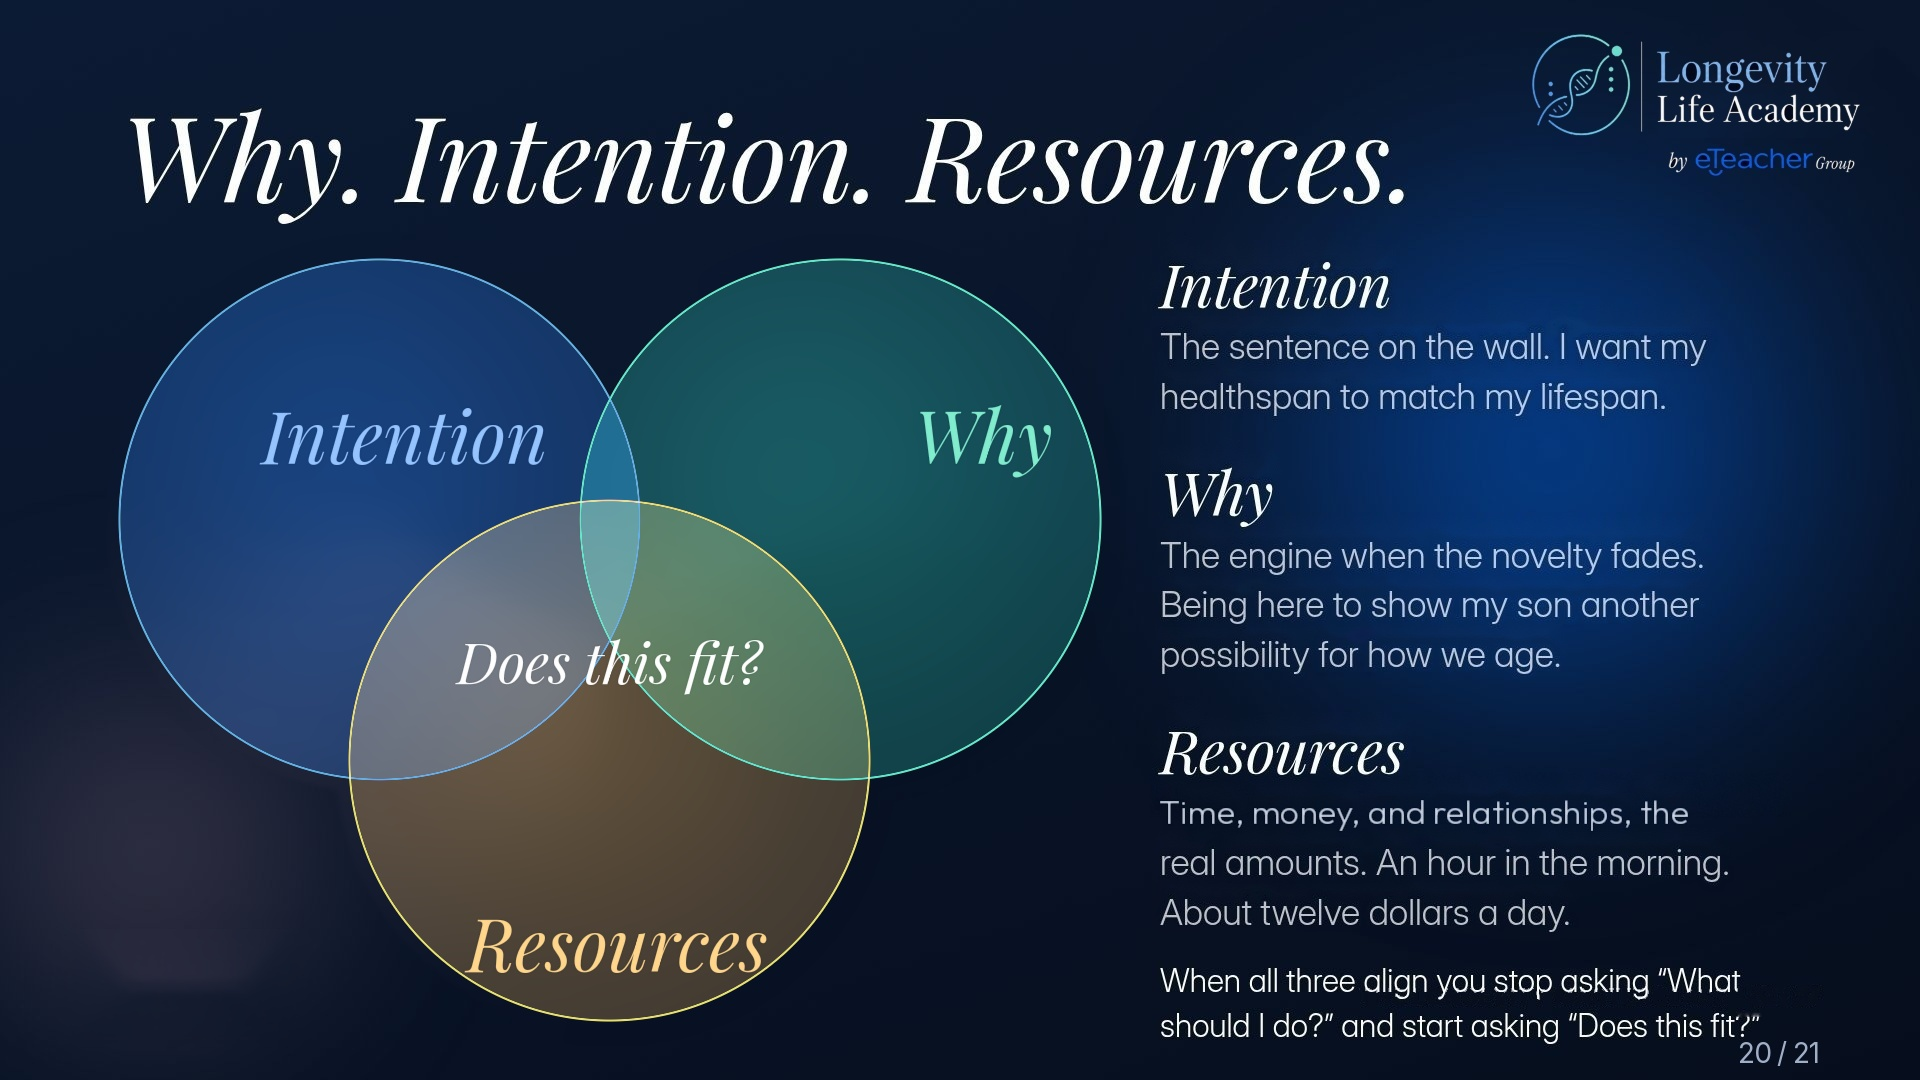
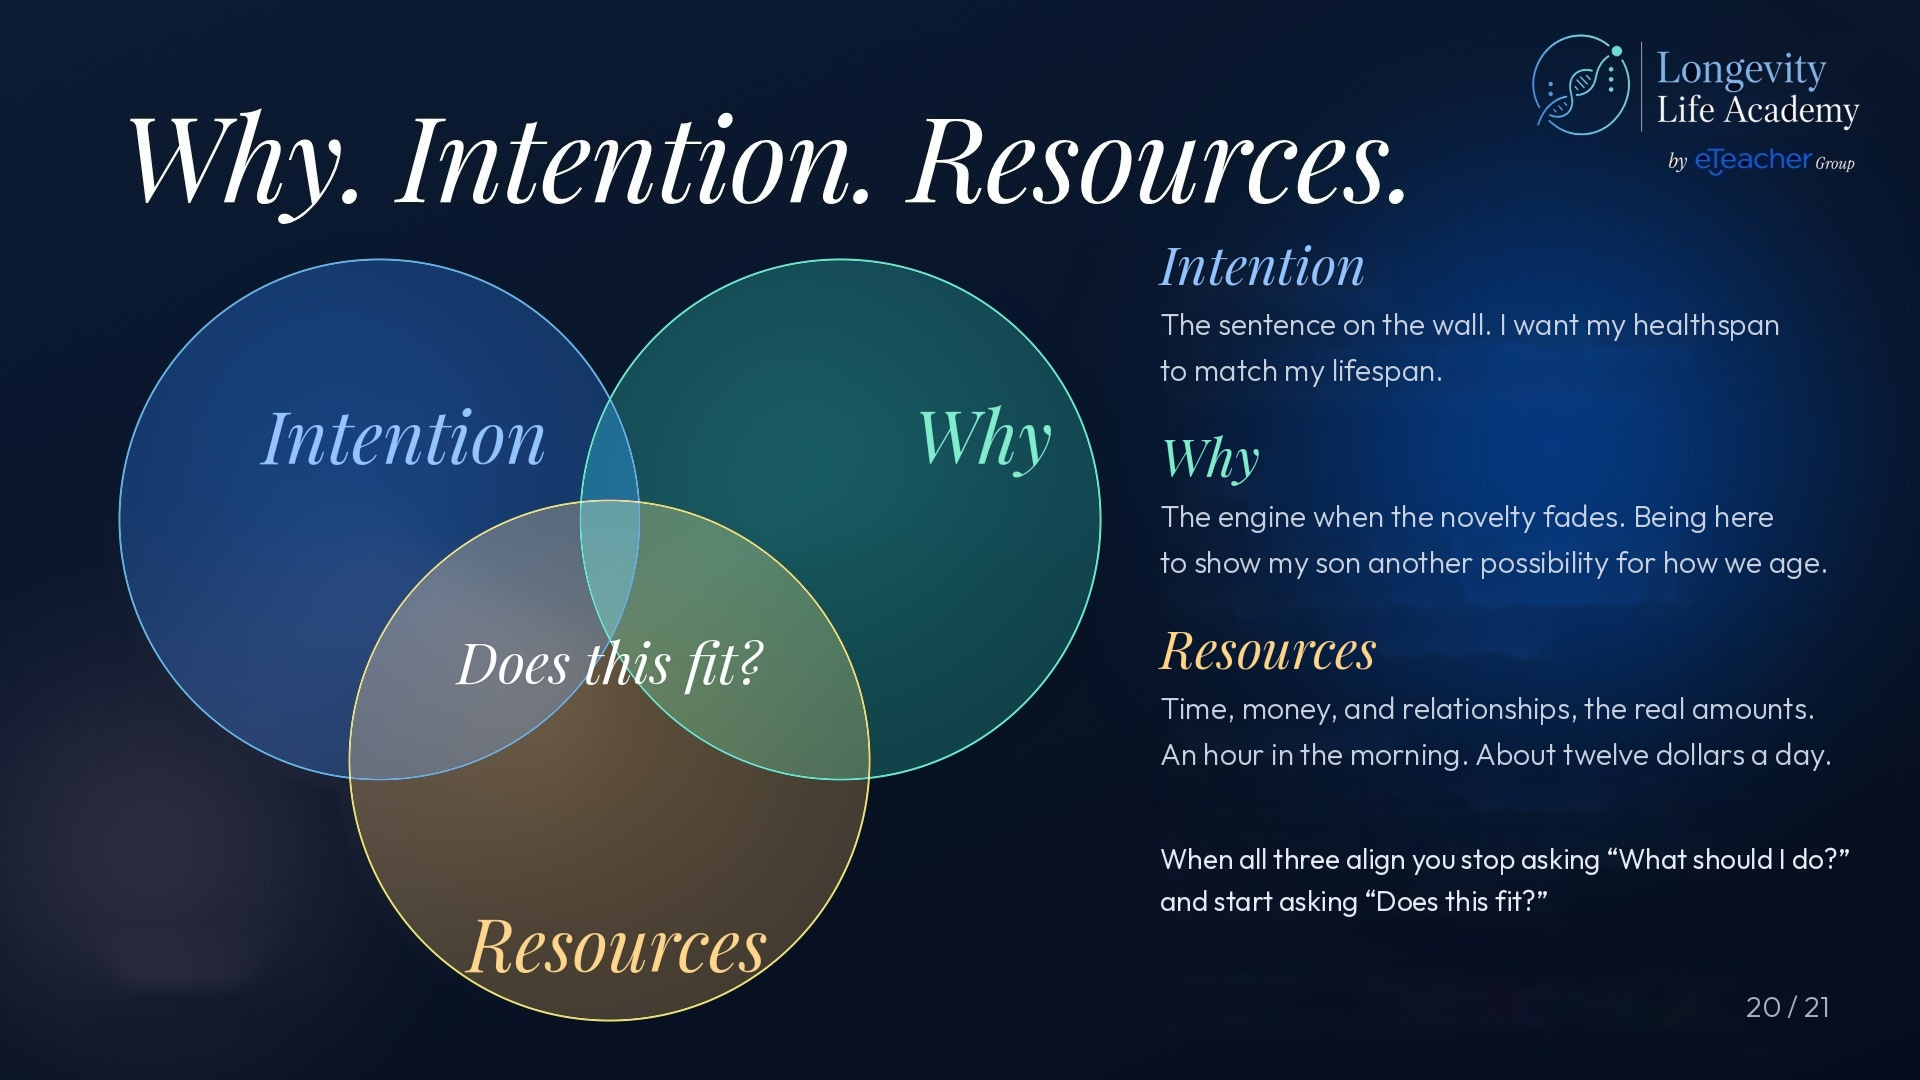
v46: Food slide tinted cards + food photo background; Why/Intention/Resources aligned column

Changed region(s): [[0.5938, 0.2139, 0.9375, 0.8556], [0.5938, 0.8861, 0.9375, 1.0]]

diff --git a/slide-canvas/v46/corrections.js b/slide-canvas/v46/corrections.js
@@ -10,25 +10,25 @@ function change(n,src,title,note){
 function noOptions(n){slot(n).querySelector('.opts')?.remove();}
 
 // V45 renumbered copies of the original images (only the baked-in counter changed).
-change(2,'assets/n02-why.jpg?v=v46i');
-change(3,'assets/n03-dunedin.jpg?v=v46i');
-change(4,'assets/n04-cake.jpg?v=v46i');
-change(5,'assets/n05-icing.jpg?v=v46i');
-change(6,'assets/n06-menopause.jpg?v=v46i');
-change(7,'assets/n07-bridge.jpg?v=v46i');
-change(11,'assets/n11-sugar.jpg?v=v46i');
-change(20,'assets/n19-cake.jpg?v=v46i');
-change(21,'assets/n20-why.jpg?v=v46i');
-change(1,'assets/n01-title.jpg?v=v46i',null,'Say: “This is not medical advice. Please talk to your doctor.” Then move to the next slide.');
-change(8,'assets/n08-sleep.jpg?v=v46i',"I'll sleep when I die.",'Said the person aging at twice the normal speed. Sleep is the repair shift, followed by the night timeline.');
+change(2,'assets/n02-why.jpg?v=v46j');
+change(3,'assets/n03-dunedin.jpg?v=v46j');
+change(4,'assets/n04-cake.jpg?v=v46j');
+change(5,'assets/n05-icing.jpg?v=v46j');
+change(6,'assets/n06-menopause.jpg?v=v46j');
+change(7,'assets/n07-bridge.jpg?v=v46j');
+change(11,'assets/n11-sugar.jpg?v=v46j');
+change(20,'assets/n19-cake.jpg?v=v46j');
+change(21,'assets/n20-why.jpg?v=v46j');
+change(1,'assets/n01-title.jpg?v=v46j',null,'Say: “This is not medical advice. Please talk to your doctor.” Then move to the next slide.');
+change(8,'assets/n08-sleep.jpg?v=v46j',"I'll sleep when I die.",'Said the person aging at twice the normal speed. Sleep is the repair shift, followed by the night timeline.');
 noOptions(8);
 slot(9).remove();
 slot(12).remove();
-change(10,'assets/n10-plate.jpg?v=v46i',null,'The plate illustrates Julie’s script: protein is the floor, fiber is the lever, whole food is the default. Her five personal rules stay on screen.');
+change(10,'assets/n10-plate.jpg?v=v46j',null,'The plate illustrates Julie’s script: protein is the floor, fiber is the lever, whole food is the default. Her five personal rules stay on screen.');
 const food=slot(10).cloneNode(true);
 food.id='s10-food';
 food.querySelector('.num').textContent='10A';
-food.querySelector('.main').src='assets/n09-food.jpg?v=v46i';food.querySelector('h2').textContent='Food.';food.querySelector('textarea').dataset.t='Food.';
+food.querySelector('.main').src='assets/n09-food.jpg?v=v46j';food.querySelector('h2').textContent='Food.';food.querySelector('textarea').dataset.t='Food.';
 food.querySelector('.why').textContent='Food foundations. Claude B, Protocol, slide 9. Followed by Julie’s plate.';
 food.querySelector('.opts')?.remove();
 food.querySelector('label').htmlFor='c10-food';
@@ -37,24 +37,24 @@ food.querySelector('textarea').dataset.n='10-food';
 food.querySelector('.saved').id='v10-food';
 slot(10).before(food);
 noOptions(10);
-change(13,'assets/n12-sameage.jpg?v=v46i',null,'Selected option 2: the two people, side by side.');
+change(13,'assets/n12-sameage.jpg?v=v46j',null,'Selected option 2: the two people, side by side.');
 noOptions(13);
-change(14,'assets/n13-movement.jpg?v=v46i',null,'Weights, VO2 max, Zone 2 (two people walking and talking), mobility and balance.');
-change(15,'assets/n14-movement-week.jpg?v=v46i',"Julie Gibson Clark’s Movement Week.",'Movement week (option 2), Claude B, Protocol, slide 13. Marked V2. Julie to update. The full protocol follows after the stress slide.');
+change(14,'assets/n13-movement.jpg?v=v46j',null,'Weights, VO2 max, Zone 2 (two people walking and talking), mobility and balance.');
+change(15,'assets/n14-movement-week.jpg?v=v46j',"Julie Gibson Clark’s Movement Week.",'Movement week (option 2), Claude B, Protocol, slide 13. Marked V2. Julie to update. The full protocol follows after the stress slide.');
 noOptions(15);
 
-change(16,'assets/n15-stress.jpg?v=v46i',null,'Layer four. Stress, your cortisol story, and the physiological sigh.');
+change(16,'assets/n15-stress.jpg?v=v46j',null,'Layer four. Stress, your cortisol story, and the physiological sigh.');
 slot(16).querySelector('.why').innerHTML='Layer four. Stress, your cortisol story, and the physiological sigh. The link to our landing page replaces “Let’s do three together”: <a href="'+courseUrl+'" target="_blank" rel="noopener" style="color:#8AD2FF">'+courseUrl+'</a>';
 
-change(17,'assets/n16-protocol.jpg?v=v46i',null,'Selected Claude B, Protocol, slide 15.');
+change(17,'assets/n16-protocol.jpg?v=v46j',null,'Selected Claude B, Protocol, slide 15.');
 noOptions(17);
-change(18,'assets/n17-notebook.jpg?v=v46i');
-change(19,'assets/n18-testing.jpg?v=v46i',null,'Selected option 2, with a testing-related background, three distinctly colored cards and DunedinPACE in the baseline-testing list.');
+change(18,'assets/n17-notebook.jpg?v=v46j');
+change(19,'assets/n18-testing.jpg?v=v46j',null,'Selected option 2, with a testing-related background, three distinctly colored cards and DunedinPACE in the baseline-testing list.');
 noOptions(19);
 const closing=slot(21).cloneNode(true);
 closing.id='s22';
 closing.querySelector('h2').textContent='One takeaway. Take action.';
-closing.querySelector('.main').src='assets/n21-takeaway.png?v=v46i';
+closing.querySelector('.main').src='assets/n21-takeaway.png?v=v46j';
 closing.querySelector('.main').alt='One takeaway. Take action.';
 closing.querySelector('.why').textContent='Closing slide. Exact original image.';
 closing.querySelector('.opts')?.remove();

diff --git a/slide-canvas/v46/index.html b/slide-canvas/v46/index.html
@@ -65,7 +65,7 @@ textarea:focus{outline:none;border-color:#006EFF;box-shadow:0 0 0 3px rgba(0,110
 <button id="send" class="btn p" onclick="sendAll()">Send my comments</button>
 <div id="lb" onclick="this.classList.remove('on')"><img id="lbimg" src="" alt=""><div class="x">Close</div></div>
 <div id="play"><img id="pimg" src="" alt=""><div class="x" onclick="stopPlay()">Close, Esc</div><div class="c" id="pc"></div></div>
-<script src="corrections.js?v=20261027-v46i"></script>
+<script src="corrections.js?v=20261027-v46j"></script>
 <script>
 const P=allSlots.map(s=>s.querySelector('img.main').getAttribute('src'));let k=0;
 const T=[...document.querySelectorAll('textarea')];

diff --git a/slide-canvas/v46/build-v46-round3.py b/slide-canvas/v46/build-v46-round3.py
@@ -1,0 +1,68 @@
+# V46 round 3: slide 9 (Food) - four distinctly tinted glass cards over a food photo; text/layout/logo/chips unchanged.
+# Runs once on the current n09 asset (backup /workspace/e46/n09_before.jpg). Text pixels are lifted from the old render.
+import cv2,numpy as np,sys
+from PIL import Image,ImageDraw,ImageFont
+OUTFIT='/usr/share/fonts/truetype/sand-box/google/Outfit/Outfit-VariableFont_wght.ttf'
+O=cv2.imread('/workspace/e46/n09_before.jpg');H,W=O.shape[:2]
+bg=cv2.imread('assets/src/food-pillars-bg.jpg')
+# cover-fit, soft focus, darken into the deck's navy
+s=max(W/bg.shape[1],H/bg.shape[0]);bg=cv2.resize(bg,(round(bg.shape[1]*s),round(bg.shape[0]*s)),interpolation=cv2.INTER_CUBIC)
+bg=bg[(bg.shape[0]-H)//2:(bg.shape[0]-H)//2+H,(bg.shape[1]-W)//2:(bg.shape[1]-W)//2+W]
+bg=cv2.GaussianBlur(bg,(0,0),3.2).astype(np.float32)
+navy=np.array([48,20,8],np.float32)   # BGR deep navy
+yy,xx=np.mgrid[0:H,0:W].astype(np.float32)
+shade=0.62+0.18*(yy/H)           # darker toward the bottom
+N=bg*(1-shade[...,None])+navy*shade[...,None]
+N=N*0.80+navy*0.20
+# header scrim keeps the title/kicker/logo calm
+al=np.clip(1-yy/330,0,1)**1.4*0.55;N=N*(1-al[...,None])+navy*al[...,None]
+def rrmask(x0,y0,x1,y1,r,S=4):
+    w,h=x1-x0,y1-y0;m=Image.new('L',(w*S,h*S),0);ImageDraw.Draw(m).rounded_rectangle((0,0,w*S-1,h*S-1),radius=r*S,fill=255)
+    return np.array(m.resize((w,h),Image.LANCZOS)).astype(np.float32)/255
+def ring(x0,y0,x1,y1,r,t=1.6):
+    a=rrmask(x0,y0,x1,y1,r);k=int(round(t));Sm=cv2.erode(a,np.ones((2*k+1,2*k+1),np.uint8))
+    return np.clip(a-Sm,0,1)
+def glass(N,box,r,tint,tint_a,edge_a,blur=16):
+    x0,y0,x1,y1=box;sub=N[y0:y1,x0:x1];bl=cv2.GaussianBlur(sub,(0,0),blur)
+    m=rrmask(x0,y0,x1,y1,r)[...,None]
+    t=np.array(tint[::-1],np.float32)
+    fill=bl*(1-tint_a)+t*tint_a*0.55+bl*0.0
+    # gentle vertical sheen
+    g=np.linspace(1.12,0.9,y1-y0)[:,None,None];fill=fill*g
+    out=sub*(1-m)+fill*m
+    e=ring(x0,y0,x1,y1,r)[...,None]*edge_a;out=out*(1-e)+(t*0.55+np.array([255,255,255],np.float32)*0.45)*e
+    N[y0:y1,x0:x1]=out;return N
+TINTS=[(36,196,180),(58,128,250),(128,98,236),(190,104,226)]   # teal, blue, violet, purple (RGB)
+CARDX=[120,547,974,1401];CY0,CY1,CW=380,784,398
+for x0,t in zip(CARDX,TINTS):N=glass(N,(x0,CY0,x0+CW,CY1),28,t,0.34,0.32)
+CH=[(120,453),(472,753),(772,1062),(1081,1479),(1498,1787)]
+for a,b in CH:N=glass(N,(a,846,b,917),36,(150,170,210),0.12,0.16,blur=10)
+# bars + numbers in each card's own colour
+def lerp(c1,c2,u):return tuple(c1[i]*(1-u)+c2[i]*u for i in range(3))
+lay=Image.new('RGBA',(W*2,H*2),(0,0,0,0));d=ImageDraw.Draw(lay)
+fnt=ImageFont.truetype(OUTFIT,62);fnt.set_variation_by_axes([600])
+for k,(x0,t) in enumerate(zip(CARDX,TINTS)):
+    lt=tuple(min(255,v+70) for v in t)
+    bx0,bx1=x0+41,x0+358
+    for i in range(bx1-bx0):
+        u=i/(bx1-bx0);c=lerp(t,lt,u);d.rectangle(((bx0+i)*2,421*2,(bx0+i+1)*2,431*2),fill=tuple(int(v) for v in c)+(255,))
+    # round the bar ends
+    d.ellipse((bx0*2-10,421*2,bx0*2+10,431*2),fill=tuple(int(v) for v in t)+(255,));d.ellipse((bx1*2-10,421*2,bx1*2+10,431*2),fill=tuple(int(v) for v in lt)+(255,))
+    x=(x0+41)*2
+    for ch in '0%d'%(k+1):
+        d.text((x,480*2),ch,font=fnt,fill=tuple(min(255,v+95) for v in t)+(255,),anchor='ls');x+=fnt.getlength(ch)+11
+L=np.array(lay.resize((W,H),Image.LANCZOS)).astype(np.float32);a=L[...,3:]/255
+N=N*(1-a)+L[...,:3][...,::-1]*a
+# lift text from the old render
+def lift(N,box,pad=0):
+    x0,y0,x1,y1=box;sub=O[y0:y1,x0:x1];b=cv2.medianBlur(sub,61).astype(np.float32)
+    dd=np.abs(sub.astype(np.float32)-b).max(2);ref=max(30,np.percentile(dd,99.7))
+    al=np.clip((dd-5)/(ref*0.8-5),0,1);al=cv2.GaussianBlur(al,(0,0),0.5)[...,None]
+    fg=np.clip((sub.astype(np.float32)-b*(1-al))/np.maximum(al,0.05),0,255);fg=np.where(al>0.05,fg,0)
+    N[y0:y1,x0:x1]=N[y0:y1,x0:x1]*(1-al)+fg*al;return N
+N=lift(N,(100,60,700,250))
+for x0 in CARDX:N=lift(N,(x0+20,495,x0+380,775))
+for a_,b_ in CH:N=lift(N,(a_+16,852,b_-16,912))
+N=lift(N,(110,795,520,832));N=lift(N,(1720,985,1850,1030))
+N=np.clip(N,0,255).astype(np.uint8)
+cv2.imwrite('assets/n09-food.jpg',N,[cv2.IMWRITE_JPEG_QUALITY,95])

diff --git a/slide-canvas/v46/build-v46-round3b.py b/slide-canvas/v46/build-v46-round3b.py
@@ -1,0 +1,45 @@
+# V46 round 3b: slide 20 (Why. Intention. Resources.) right column rebuilt as one clean aligned column.
+# Input: the previous n20 asset (backup /workspace/e46/n20_before.jpg). Circles/title/logo untouched.
+import cv2,numpy as np
+from PIL import Image,ImageDraw,ImageFont
+exec(open('build-v46-round2.py').read().split('# ================= slide 16')[0].split("A='assets/'")[1].join(["A='assets/'",""]) if False else "")
+OUTFIT='/usr/share/fonts/truetype/sand-box/google/Outfit/Outfit-VariableFont_wght.ttf'
+PFI='../../backup-deck/fonts/PlayfairDisplay-Italic.ttf'
+def F(path,size,axes=None):
+    f=ImageFont.truetype(path,size)
+    if axes:f.set_variation_by_axes(axes)
+    return f
+def wipe(im,box,thr=5,dil=4):
+    x0,y0,x1,y1=box;sub=im[y0:y1,x0:x1];bg=cv2.medianBlur(sub,61).astype(int)
+    m=((np.abs(sub.astype(int)-bg).max(2))>thr).astype(np.uint8)*255;m=cv2.dilate(m,np.ones((2*dil+1,2*dil+1),np.uint8))
+    full=np.zeros(im.shape[:2],np.uint8);full[y0:y1,x0:x1]=m
+    return cv2.inpaint(im,full,5,cv2.INPAINT_TELEA)
+im=cv2.imread('/workspace/e46/n20_before.jpg');H,W=im.shape[:2]
+im=wipe(im,(1135,225,1880,1080))
+X=1160;MAXW=706
+HF=F(PFI,52,[400]);BF=F(OUTFIT,30,[300]);CF=F(OUTFIT,28,[360])
+def wrap(t,f,w):
+    return t.split('|')
+blocks=[('Intention',(150,196,255),'The sentence on the wall. I want my healthspan|to match my lifespan.'),
+        ('Why',(130,236,206),'The engine when the novelty fades. Being here|to show my son another possibility for how we age.'),
+        ('Resources',(255,214,140),'Time, money, and relationships, the real amounts.|An hour in the morning. About twelve dollars a day.')]
+y=285;items=[]
+for h,c,b in blocks:
+    items.append((X,y,h,HF,c,'ls'));by=y
+    for ln in wrap(b,BF,MAXW):
+        by+=50 if ln==wrap(b,BF,MAXW)[0] else 46
+        items.append((X,by,ln,BF,(206,215,230),'ls'))
+    y=by+96
+y=y-96+104
+for ln in wrap('When all three align you stop asking “What should I do?”|and start asking “Does this fit?”',CF,MAXW):
+    items.append((X,y,ln,CF,(236,241,250),'ls'));y+=42
+y-=42
+print('last baseline',y)
+lay=Image.new('RGBA',(W,H),(0,0,0,0));d=ImageDraw.Draw(lay)
+for x,yy,s,f,c,a in items:d.text((x,yy),s,font=f,fill=tuple(c)+(255,),anchor=a,features=['-liga','-calt'])
+L=np.array(lay).astype(np.float32);al=cv2.GaussianBlur(L[...,3:]/255,(0,0),0.4).reshape(H,W,1)
+im=np.clip(im.astype(np.float32)*(1-al)+L[...,:3][...,::-1]*al,0,255).astype(np.uint8)
+CT=F(OUTFIT,29,[300]);lay=Image.new('RGBA',(W,H),(0,0,0,0));ImageDraw.Draw(lay).text((1830,1017),'20 / 21',font=CT,fill=(172,182,204,255),anchor='rs')
+L=np.array(lay).astype(np.float32);al=cv2.GaussianBlur(L[...,3:]/255,(0,0),0.4).reshape(H,W,1)
+im=np.clip(im.astype(np.float32)*(1-al)+L[...,:3][...,::-1]*al,0,255).astype(np.uint8)
+cv2.imwrite('assets/n20-why.jpg',im,[cv2.IMWRITE_JPEG_QUALITY,95])
